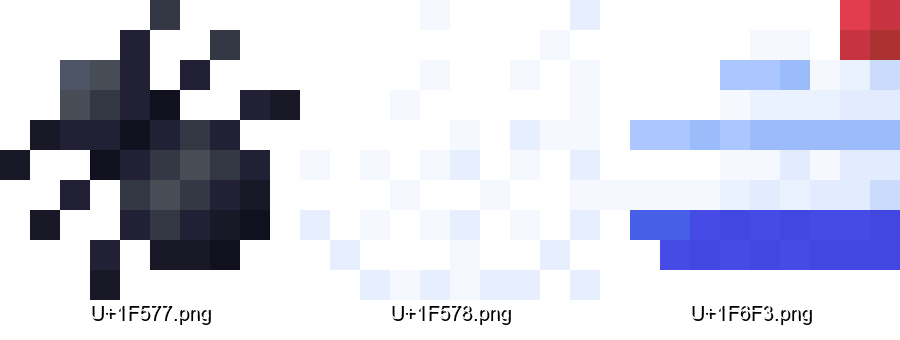
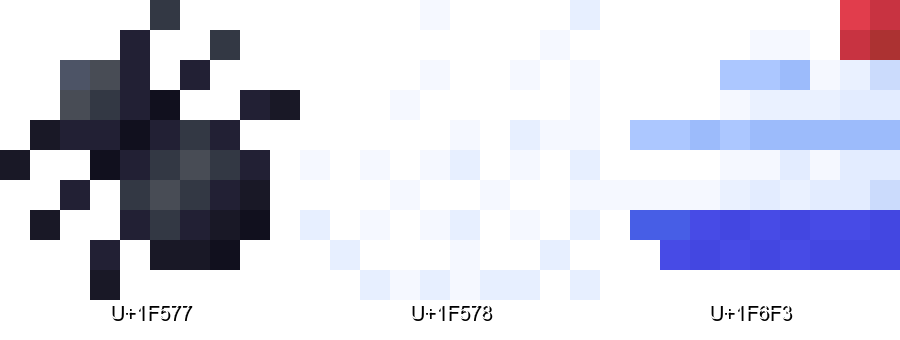
lots

Changed region(s): [[0.4356, 0.8824, 0.5911, 0.9706], [0.7467, 0.8824, 0.9022, 0.9706], [0.0933, 0.8824, 0.2489, 0.9706]]

diff --git a/sep.py b/sep.py
@@ -5,7 +5,11 @@ from PIL import Image, ImageFont, ImageDraw
 import os
 import sys
 
-def scale_and_arrange_images(folder_path, scale_factor=30, font_size=20, shadowOffset=2):
+recursive = 0
+total_width = 0
+
+def scale_and_arrange_images(folder_path, scale_factor=30, font_size=20, shadowOffset=2, subcall=0, seperatingLine=5, images=[], filenames=[]):
+  global total_width
   """
   Scales up PNG images in a folder, arranges them horizontally, and saves a combined image.
 
@@ -15,47 +19,57 @@ def scale_and_arrange_images(folder_path, scale_factor=30, font_size=20, shadowO
     font_size: Size of the font used to display filenames.
   """
   font = ImageFont.truetype("arial.ttf", font_size)
-  images = []
-  filenames = []
-  total_width = 0
 
   # Load and resize images
   for filename in os.listdir(folder_path):
-    if filename.endswith(".png"):
-      if (filename != "combined.png"):
-        image_path = os.path.join(folder_path, filename)
-        img = Image.open(image_path)
-        width, height = img.size
-        resized_width = int(width * scale_factor)
-        resized_height = int(height * scale_factor)
-        resized_img = img.resize((resized_width, resized_height))
-        images.append(resized_img)
-        filenames.append(filename)
-        total_width += resized_width
+    current_path = os.path.join(folder_path, filename)
+    if (os.path.isdir(current_path) and recursive):
+      scale_and_arrange_images(current_path, scale_factor, font_size, shadowOffset, 1, seperatingLine, images, filenames)  # Recursive call
+    else:
+      if filename.endswith(".png"):
+        if (filename != "combined.png"):
+          image_path = os.path.join(folder_path, filename)
+          img = Image.open(image_path)
+          width, height = img.size
+          resized_width = int(width * scale_factor)
+          resized_height = int(height * scale_factor)
+          resized_img = img.resize((resized_width, resized_height))
+          images.append(resized_img)
+          filename = os.path.splitext(filename)[0]
+          filenames.append(filename)
+          total_width += resized_width + seperatingLine
+          print(image_path + "- " + str(total_width))
+  
+  if (subcall == 0):
+    # Create a new image to hold all resized images
+    max_height = max(img.size[1] for img in images)
+    combined_img = Image.new("RGBA", (total_width, max_height+font_size*2))
+    x_offset = 0
 
-  # Create a new image to hold all resized images
-  max_height = max(img.size[1] for img in images)
-  combined_img = Image.new("RGBA", (total_width, max_height+font_size*2))
-  x_offset = 0
+    # Add images and filenames to the combined image
+    for i, img in enumerate(images):
+      combined_img.paste(img, (x_offset, 0))
+      draw = ImageDraw.Draw(combined_img)
+      text_width = draw.textlength(filenames[i], font=font)  # Capture just the width
+      text_height = font_size  # Approximate height based on font size
+      draw.text((x_offset+shadowOffset + (img.size[0] - text_width) // 2, max_height+shadowOffset), filenames[i], font=font, fill=(0, 0, 0))
+      draw.text((x_offset + (img.size[0] - text_width) // 2, max_height), filenames[i], font=font, fill=(255, 255, 255))
+      draw.line((x_offset,0, x_offset,max_height), fill=(0,0,255), width=seperatingLine)
+      x_offset += img.size[0]
 
-  # Add images and filenames to the combined image
-  for i, img in enumerate(images):
-    combined_img.paste(img, (x_offset, 0))
-    draw = ImageDraw.Draw(combined_img)
-    text_width = draw.textlength(filenames[i], font=font)  # Capture just the width
-    text_height = font_size  # Approximate height based on font size
-    draw.text((x_offset+shadowOffset + (img.size[0] - text_width) // 2, max_height+shadowOffset), filenames[i], font=font, fill=(0, 0, 0))
-    draw.text((x_offset + (img.size[0] - text_width) // 2, max_height), filenames[i], font=font, fill=(255, 255, 255))
-    x_offset += img.size[0]
-
-  # Save the combined image
-  combined_image_path = os.path.join(folder_path, "combined.png")
-  combined_img.save(combined_image_path)
-  print(f"Combined image saved to: {combined_image_path}")
+    # Save the combined image
+    combined_image_path = os.path.join(folder_path, "combined.png")
+    combined_img.save(combined_image_path)
+    print(f"Combined image saved to: {combined_image_path}")
 
 # Example usagetry:
 try:
     folder_path = sys.argv[1]
+    try:
+       if (sys.argv[2] is not None):
+          recursive = 1
+    except IndexError:
+          recursive = 0
     scale_and_arrange_images(folder_path)
 except IndexError:
     print("No path provided!")
